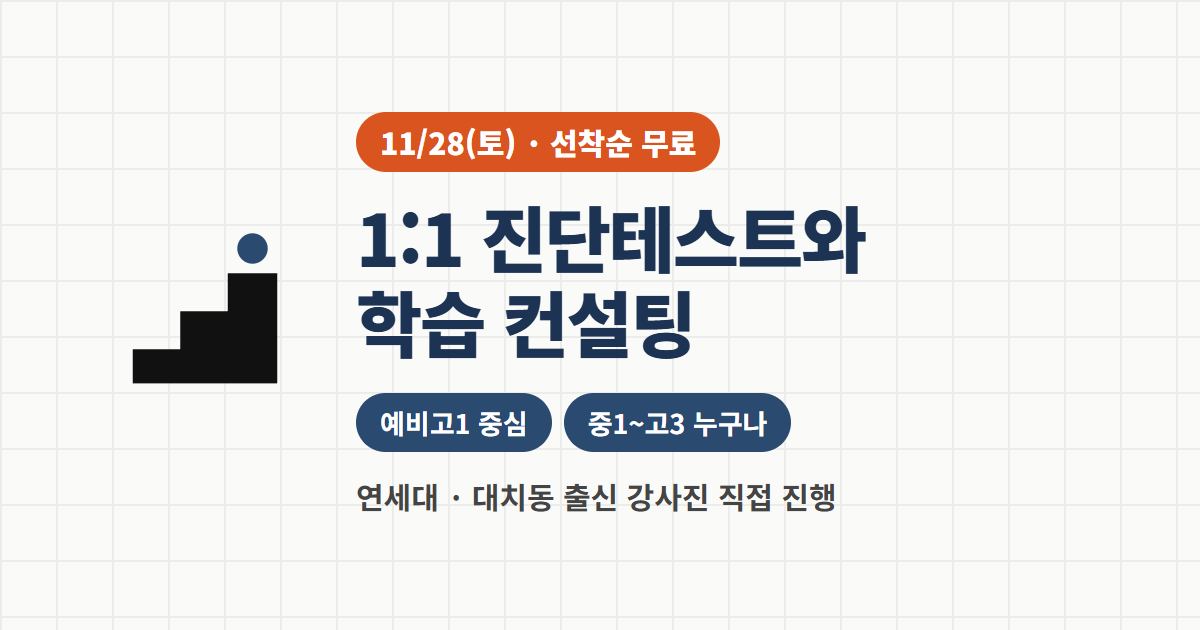
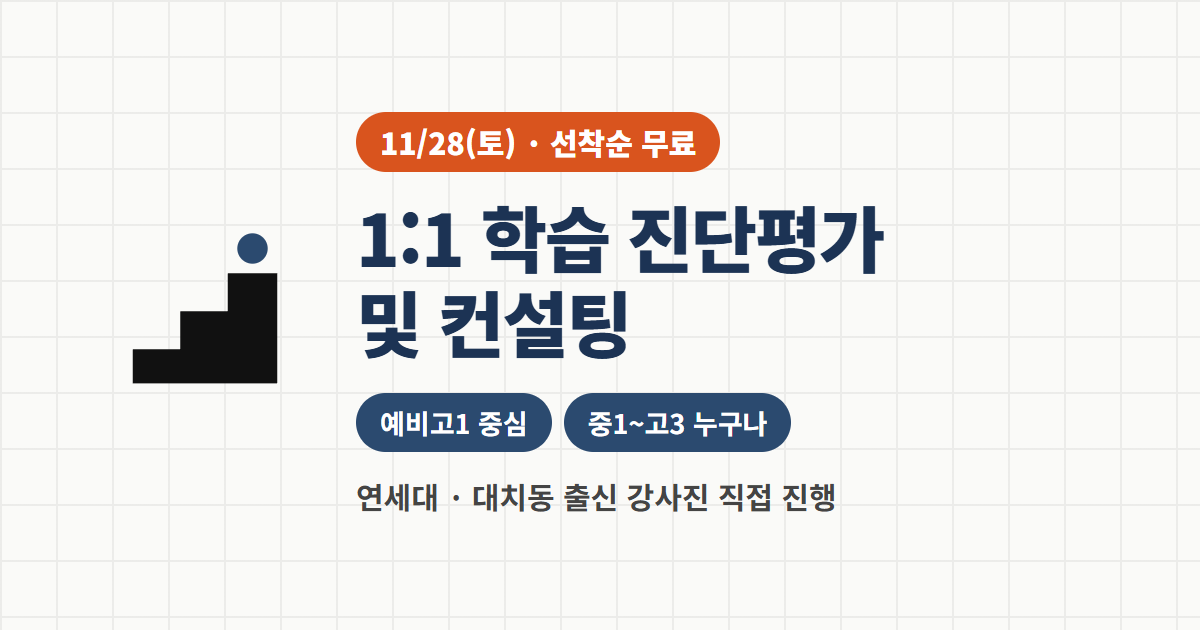
11/28 행사 이름을 '1:1 학습 진단평가 및 컨설팅'으로 통일

Changed region(s): [[0.2775, 0.3317, 0.74, 0.573]]

diff --git a/booking/index.html b/booking/index.html
@@ -3,9 +3,9 @@
 <head>
 <meta charset="utf-8">
 <meta name="viewport" content="width=device-width,initial-scale=1,viewport-fit=cover">
-<title>11/28(토) 1:1 진단·학습 컨설팅 예약 · 일등급수학솔루션</title>
-<meta name="description" content="11월 28일(토) 예비고1 중심 1:1 진단테스트·학습 컨설팅 선착순 예약">
-<meta property="og:title" content="11/28(토) 예비고1 1:1 진단테스트와 학습 컨설팅 · 선착순 무료 예약">
+<title>11/28(토) 1:1 학습 진단평가 및 컨설팅 예약 · 일등급수학솔루션</title>
+<meta name="description" content="11월 28일(토) 예비고1 중심 1:1 학습 진단평가 및 컨설팅 선착순 예약">
+<meta property="og:title" content="11/28(토) 예비고1 1:1 학습 진단평가 및 컨설팅 · 선착순 무료 예약">
 <meta property="og:description" content="연세대·대치동 출신 강사진이 직접 진행합니다. 예비고1(현 중3) 중심 · 중1~고3 누구나 · 무료 · 오전 10시~오후 2시(30분 단위) · 인천 검단구 고산후로 222 프리마더타워 5층 일등급수학솔루션학원">
 <meta property="og:image" content="https://firstclassmath.github.io/booking/og.png">
 <meta property="og:image:width" content="1200">
@@ -76,8 +76,8 @@ form input:focus,form textarea:focus{outline:2px solid var(--blue);border-color:
 
   <div class="top">
     <span class="badge">선착순 마감</span> <span class="badge hot" id="hotbadge" hidden>마감임박</span>
-    <h1>11월 28일(토)<br>1:1 진단테스트 · 학습 컨설팅 예약</h1>
-    <p>연세대·대치동 출신 강사들이 직접 1:1 진단테스트와 학습 컨설팅을 진행합니다. 기말이 끝난 예비고1에게 특히 권해요.</p>
+    <h1>11월 28일(토)<br>1:1 학습 진단평가 및 컨설팅 예약</h1>
+    <p>연세대·대치동 출신 강사들이 직접 1:1 학습 진단평가와 컨설팅을 진행합니다. 기말이 끝난 예비고1에게 특히 권해요.</p>
     <span class="who">예비고1(현 중3) 중심</span> <span class="who">중1~고3 누구나</span>
   </div>
 

diff --git a/index.html b/index.html
@@ -89,7 +89,7 @@ form.card input:focus,form.card select:focus,form.card textarea:focus{outline:2p
 .bk:active{transform:scale(.985)}
 .bk .hd{display:flex;flex-wrap:wrap;align-items:center;gap:8px}
 .bk .hd b{font-size:17px;font-weight:900}
-@media(max-width:390px){.bk .hd b{font-size:15px}.bk .hd .dd{font-size:11px;padding:3px 7px}}
+@media(max-width:390px){.bk .hd b{font-size:15px;letter-spacing:-.03em}}@media(max-width:370px){.bk .hd b{font-size:14px}.bk .hd .dd{font-size:11px;padding:3px 7px}}
 .bk .hd .dd{margin-left:auto;font-size:12px;font-weight:900;color:#fff;background:#d9541e;border-radius:999px;padding:3px 9px;white-space:nowrap}
 .bk .sub b{color:#fff;font-weight:900;background:rgba(255,255,255,.16);border-radius:6px;padding:0 5px}
 .bk .sub{word-break:keep-all;font-size:13px;color:#dce5f0;line-height:1.5;margin-top:6px}
@@ -111,8 +111,8 @@ form.card input:focus,form.card select:focus,form.card textarea:focus{outline:2p
 
   <!-- 11/28 상담 예약(손으로 관리). 행사가 끝나면 이 카드를 지울 것 -->
   <a class="bk" href="booking/">
-    <div class="hd"><b>11/28(토) 1:1 진단 및 학습 컨설팅</b><span class="dd">선착순 마감</span></div>
-    <div class="sub">연세대·대치동 출신 강사들이 직접 1:1 진단테스트와 학습 컨설팅을 진행합니다. 오전 10시 ~ 오후 2시<br><b>예비고1(현 중3) 중심</b> <b>중1~고3 누구나</b></div>
+    <div class="hd"><b>11/28(토) 1:1 학습 진단평가 및 컨설팅</b><span class="dd">선착순 마감</span></div>
+    <div class="sub">연세대·대치동 출신 강사들이 직접 1:1 학습 진단평가와 컨설팅을 진행합니다. 오전 10시 ~ 오후 2시<br><b>예비고1(현 중3) 중심</b> <b>중1~고3 누구나</b></div>
     <div class="go">예약하러 가기 <span id="bk_st">30분 단위 ›</span></div>
   </a>
 
